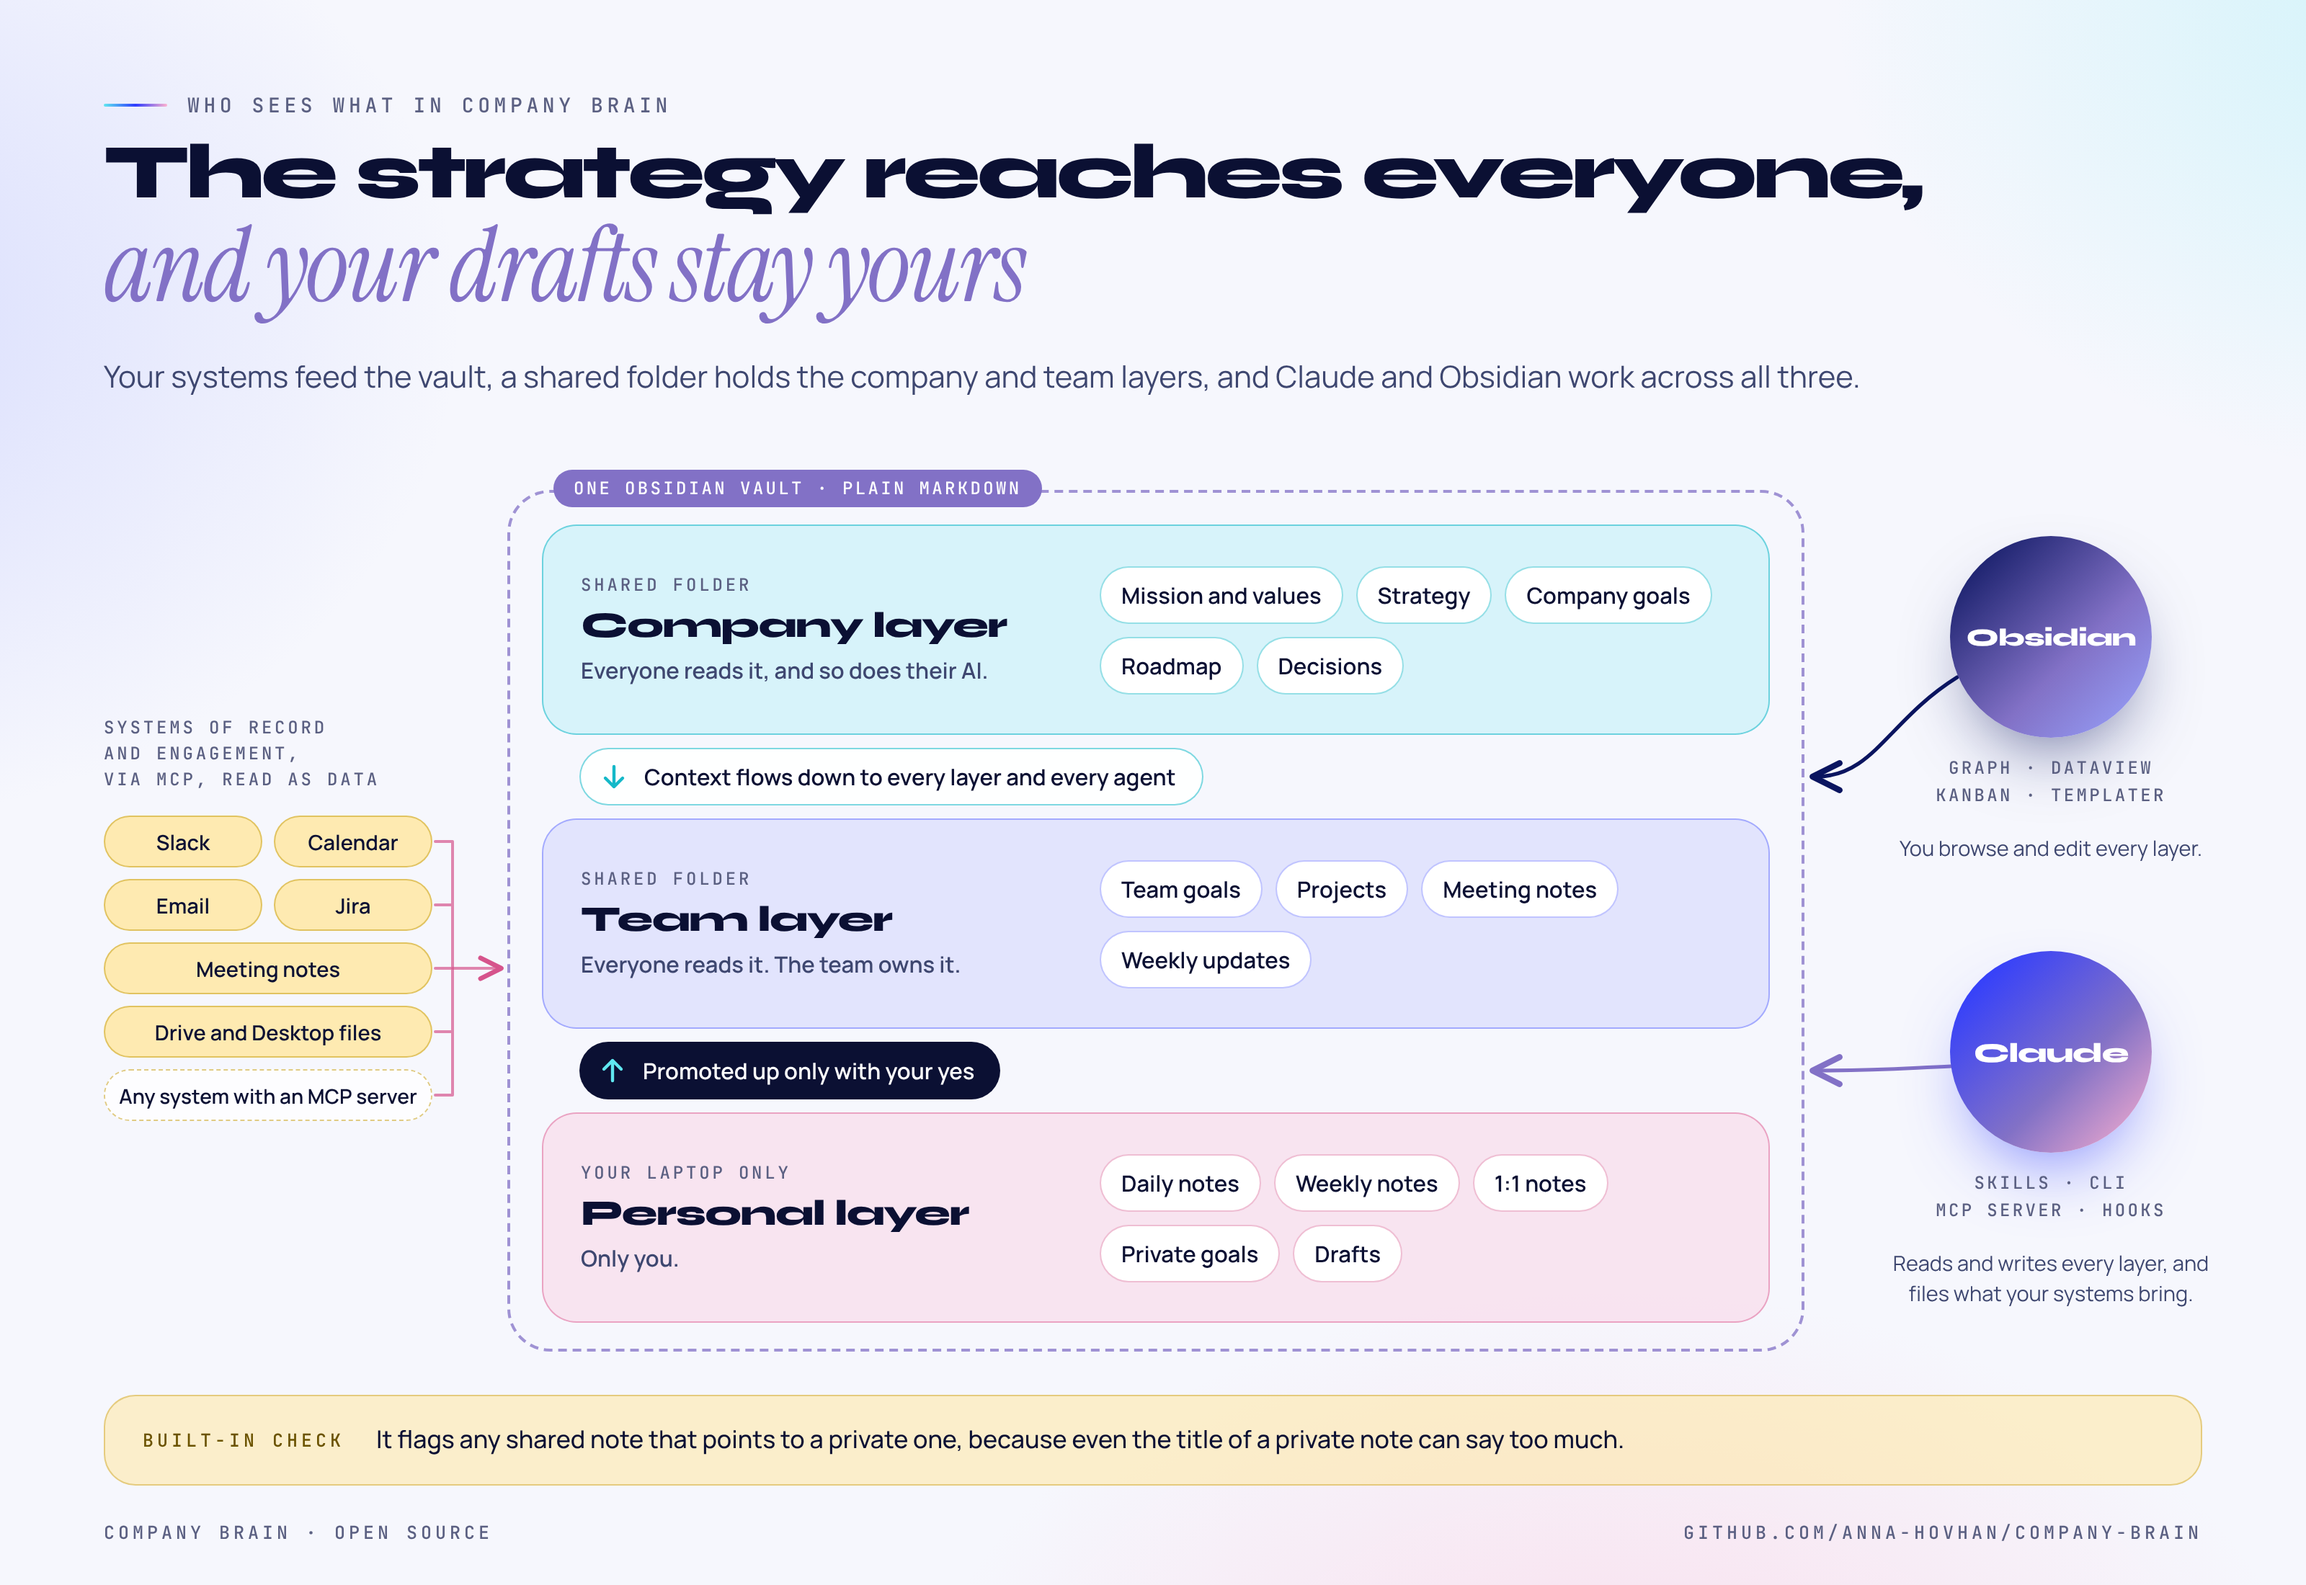
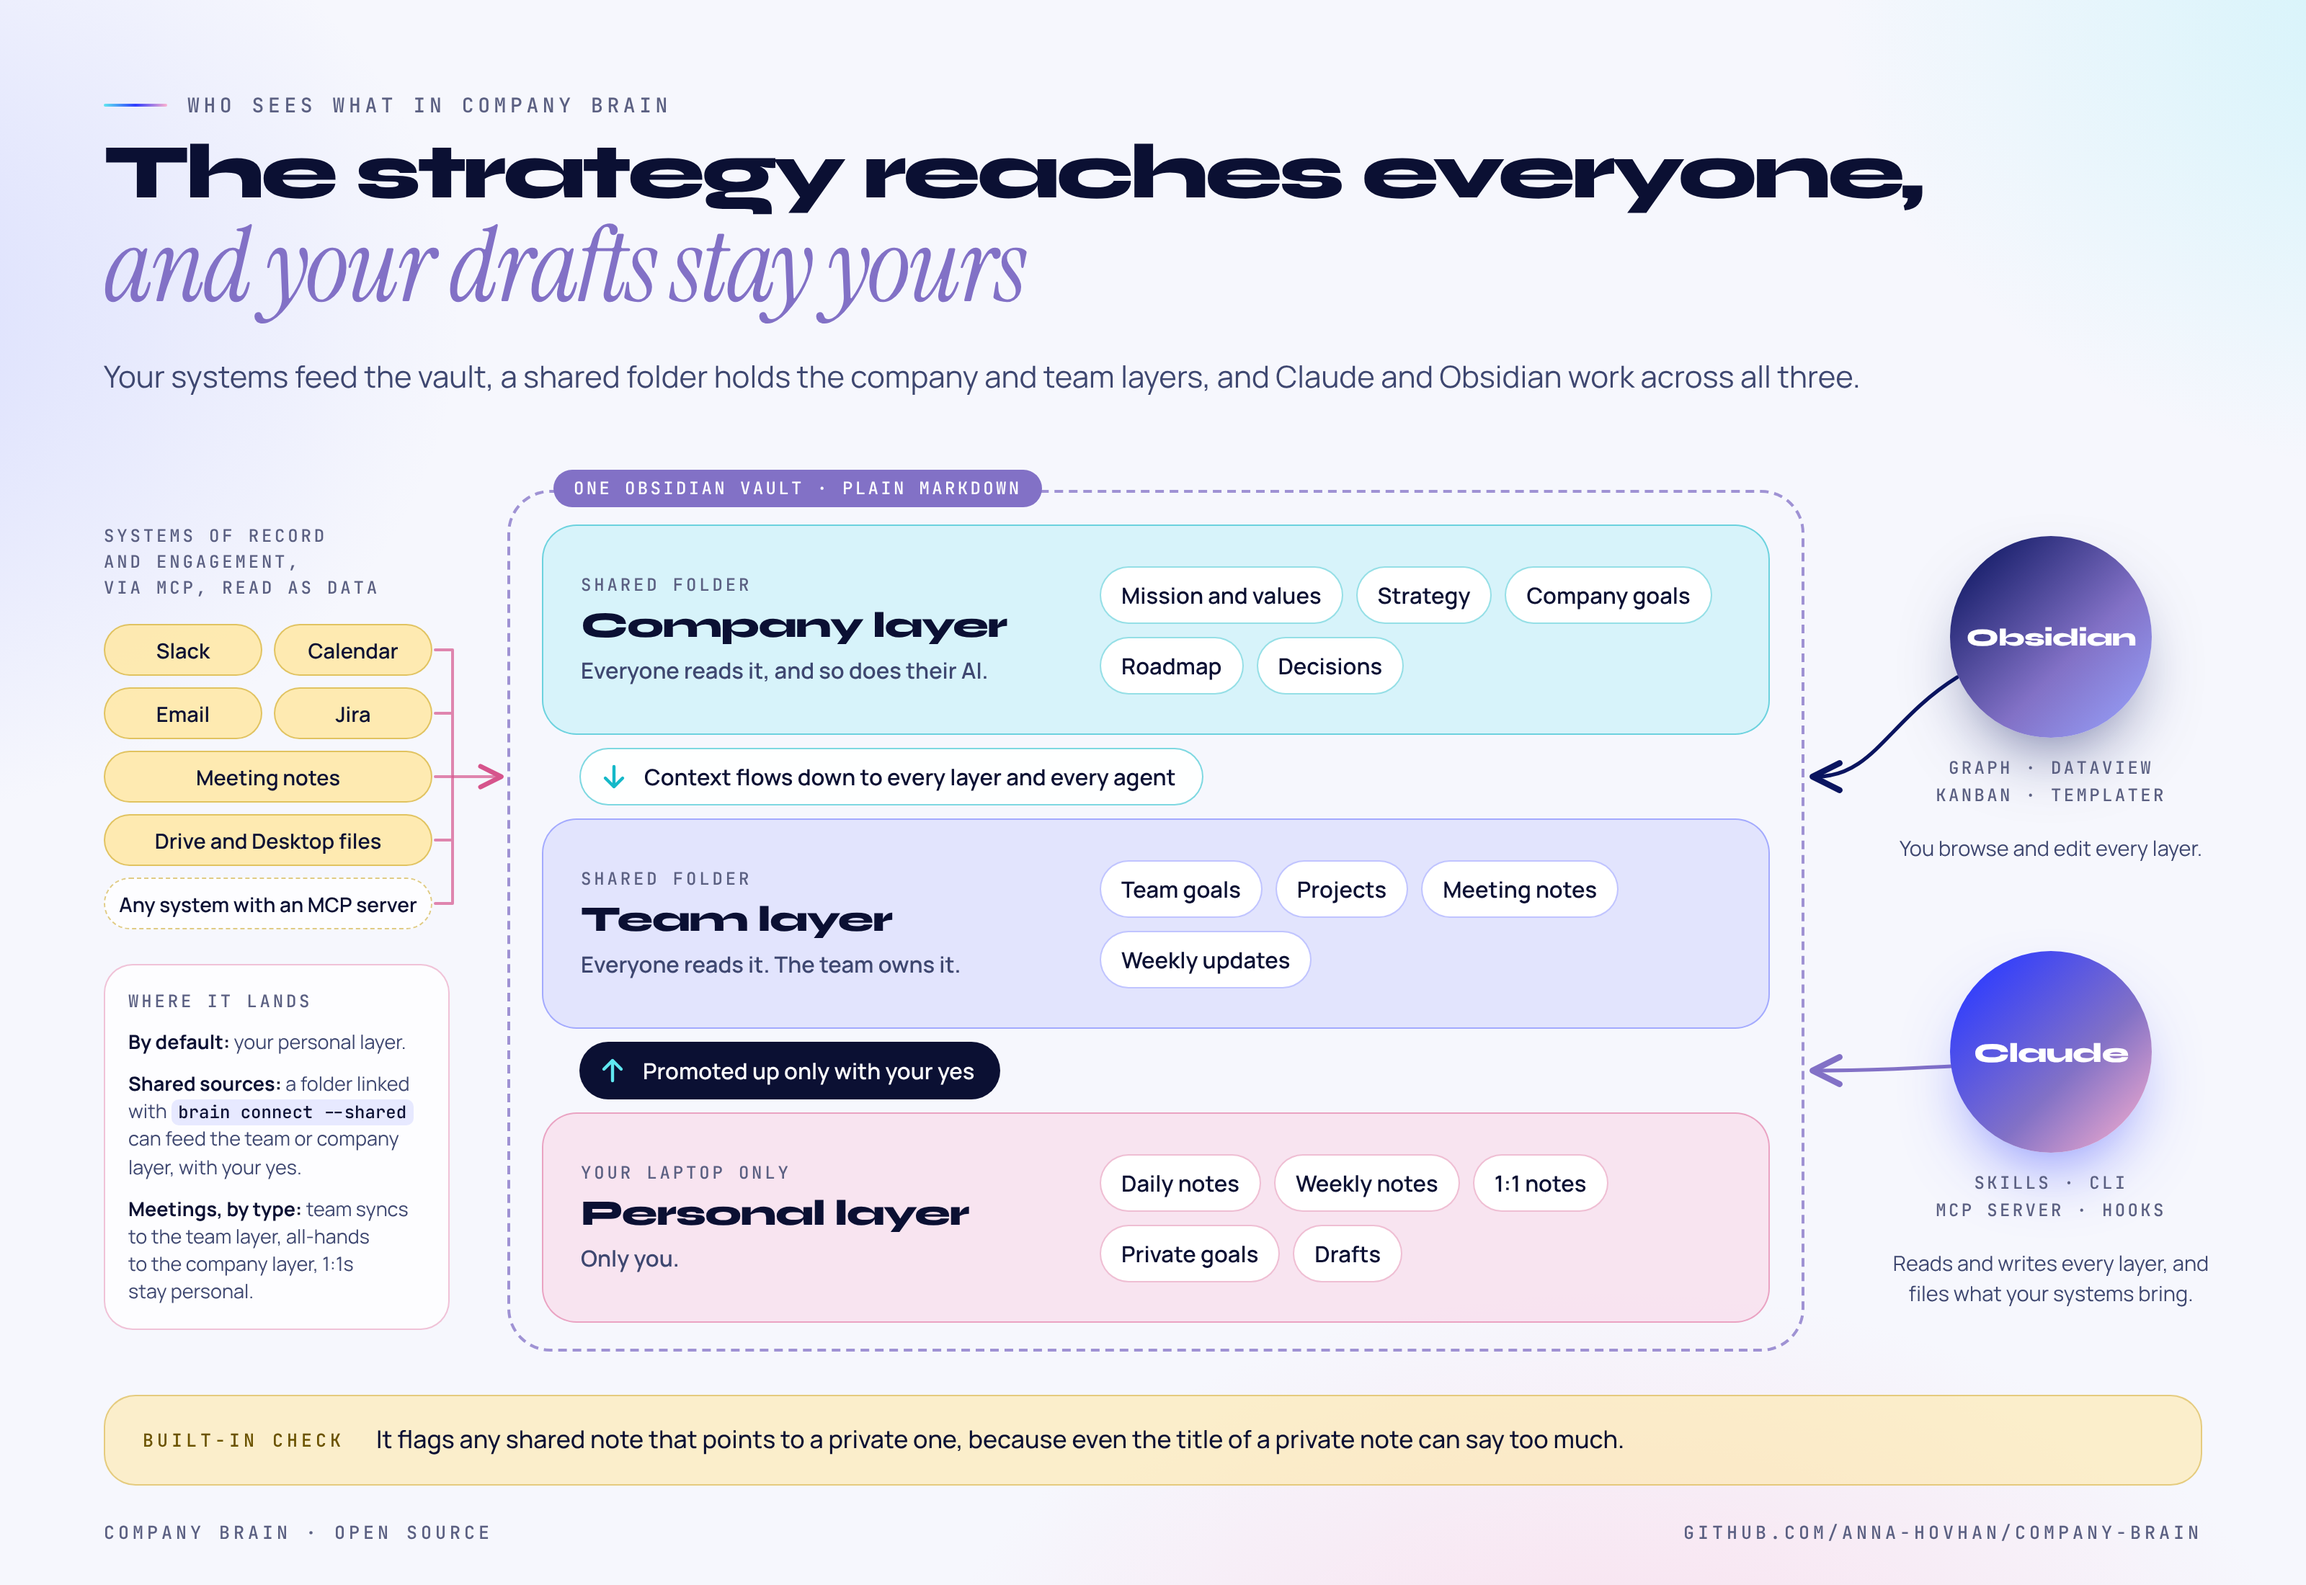
Layers image for the article: add where your systems' data lands
A "Where it lands" card under the systems of record: personal layer by
default; a folder linked with brain connect --shared can feed the team
or company layer with your yes; meetings filed by type (team syncs to
the team layer, all-hands to the company layer, 1:1s stay personal).
From company-brain's ingest and meeting skills and references/sources.md.
The systems group moves up to make room, its arrow level with Obsidian's.

Claude-Session: https://claude.ai/code/session_01MomxP67ukTRV34RoJaBaNR

Changed region(s): [[0.0312, 0.34, 0.2188, 0.8345]]

diff --git a/examples/linkedin-company-brain-short/06-layers-vault-inputs.html b/examples/linkedin-company-brain-short/06-layers-vault-inputs.html
@@ -5,6 +5,9 @@
 <title>The strategy reaches everyone, in three layers (article version)</title>
 <!--
   Article version of 05-layers-inputs-and-tools.html (2026-11-10), for v2 of the short LinkedIn article: no separate shared folder box (the company and team layers keep their "Shared folder" labels), and the systems of record and engagement, centred on the vault, feed the vault as a whole through one arrow onto its border, like Obsidian and Claude on the right. 1600x1100, exported at 2x.
+  Below the systems, "Where it lands": personal by default; a source linked with brain connect --shared can feed the team or company layer
+  with the user's yes (.company-brain/skills/ingest, references/sources.md); meetings filed by type (.company-brain/skills/meeting).
+  The systems group sits higher to make room, its arrow level with Obsidian's (y 539).
   05 stays as it is: it is the company-brain README overview image.
   Facts from company-brain: System/Layers and privacy.md ("What Claude pulls from your tools"),
   .company-brain/skills/weekly and connect, README.md "How Claude accesses it", CLAUDE.md sections 1 and 6.
@@ -31,9 +34,15 @@ h1 em{display:block;font-family:'Instrument Serif',serif;font-style:italic;font-
 .sub{left:72px;top:246px;font-size:21px;line-height:1.5;color:var(--ink2);width:1420px}
 svg.wires{left:0;top:0;width:1600px;height:1100px}
 /* inputs */
-.inputs{left:72px;top:496px;width:240px}
+.inputs{left:72px;top:363px;width:240px}
 .inputs .mono{display:block;font-size:12px;letter-spacing:.16em;line-height:1.5}
 .inp.any{background:rgba(255,255,255,.75);border-style:dashed;font-size:14px}
+.lands{left:72px;top:669px;width:240px;padding:16px;border-radius:20px;background:rgba(255,255,255,.72);border:1.5px solid rgba(214,84,140,.35)}
+.lands .mono{display:block;font-size:12px;letter-spacing:.16em;line-height:1.5}
+.lands ul{list-style:none;margin-top:10px;display:flex;flex-direction:column;gap:10px}
+.lands li{font-size:13.5px;line-height:1.42;color:var(--ink2);text-wrap:pretty}
+.lands li b{color:var(--ink);font-weight:700}
+.lands code{font-family:'JetBrains Mono',monospace;font-size:12px;padding:1px 5px;border-radius:5px;background:rgba(153,165,255,.22);color:var(--ink);white-space:nowrap}
 .inp{position:absolute;height:36px;display:flex;align-items:center;justify-content:center;border-radius:100px;font-size:14.5px;font-weight:600;background:rgba(255,231,163,.85);border:1.5px solid rgba(201,162,31,.55)}
 /* vault and floors */
 .vault{left:352px;top:340px;width:900px;height:598px;border:2px dashed rgba(130,113,198,.75);border-radius:30px}
@@ -81,10 +90,10 @@ svg.wires{left:0;top:0;width:1600px;height:1100px}
       <marker id="arrn" viewBox="0 0 10 10" refX="8" refY="5" markerWidth="9" markerHeight="9" orient="auto"><path d="M1 1 L9 5 L1 9" fill="none" stroke="#0b1560" stroke-width="1.8" stroke-linejoin="round"/></marker>
       <marker id="arrp" viewBox="0 0 10 10" refX="8" refY="5" markerWidth="9" markerHeight="9" orient="auto"><path d="M1 1 L9 5 L1 9" fill="none" stroke="#d6548c" stroke-width="1.8" stroke-linejoin="round"/></marker>
     </defs>
-    <!-- systems: chip rows centred at y 584, 628, 672, 716, 760; a bracket at x 314, then one arrow from its midpoint onto the vault's left border (x 352) -->
+    <!-- systems: chip rows centred at y 451, 495, 539, 583, 627; a bracket at x 314, then one arrow from its midpoint onto the vault's left border (x 352) -->
     <g stroke="#d6548c" stroke-opacity=".7" stroke-width="2">
-      <path d="M302 584 H 314 M302 628 H 314 M302 672 H 314 M302 716 H 314 M302 760 H 314 M314 584 V 760"/>
-      <path d="M314 672 H 346" marker-end="url(#arrp)"/>
+      <path d="M302 451 H 314 M302 495 H 314 M302 539 H 314 M302 583 H 314 M302 627 H 314 M314 451 V 627"/>
+      <path d="M314 539 H 346" marker-end="url(#arrp)"/>
     </g>
     <!-- one arrow each into the vault (right border x 1252), landing between layers -->
     <path d="M1358 470 C 1310 500, 1300 539, 1260 539" stroke="#0b1560" stroke-width="2.6" marker-end="url(#arrn)"/>
@@ -92,13 +101,21 @@ svg.wires{left:0;top:0;width:1600px;height:1100px}
   </svg>
 
   <div class="abs inputs"><span class="mono">Systems of record<br>and engagement,<br>via MCP, read as data</span></div>
-  <span class="inp" style="left:72px;top:566px;width:110px">Slack</span>
-  <span class="inp" style="left:190px;top:566px;width:110px">Calendar</span>
-  <span class="inp" style="left:72px;top:610px;width:110px">Email</span>
-  <span class="inp" style="left:190px;top:610px;width:110px">Jira</span>
-  <span class="inp" style="left:72px;top:654px;width:228px">Meeting notes</span>
-  <span class="inp" style="left:72px;top:698px;width:228px">Drive and Desktop files</span>
-  <span class="inp any" style="left:72px;top:742px;width:228px">Any system with an MCP server</span>
+  <span class="inp" style="left:72px;top:433px;width:110px">Slack</span>
+  <span class="inp" style="left:190px;top:433px;width:110px">Calendar</span>
+  <span class="inp" style="left:72px;top:477px;width:110px">Email</span>
+  <span class="inp" style="left:190px;top:477px;width:110px">Jira</span>
+  <span class="inp" style="left:72px;top:521px;width:228px">Meeting notes</span>
+  <span class="inp" style="left:72px;top:565px;width:228px">Drive and Desktop files</span>
+  <span class="inp any" style="left:72px;top:609px;width:228px">Any system with an MCP server</span>
+  <div class="abs lands">
+    <span class="mono">Where it lands</span>
+    <ul>
+      <li><b>By default:</b> your personal layer.</li>
+      <li><b>Shared sources:</b> a folder linked with <code>brain connect --shared</code> can feed the team or company layer, with your yes.</li>
+      <li><b>Meetings, by type:</b> team syncs to the team layer, all-hands to the company layer, 1:1s stay personal.</li>
+    </ul>
+  </div>
 
   <div class="abs vault"></div>
   <span class="abs vault-tag">One Obsidian vault · plain markdown</span>

diff --git a/examples/linkedin-company-brain-short/README.md b/examples/linkedin-company-brain-short/README.md
@@ -9,7 +9,7 @@ The visuals for the short rewrite (2026-11-09) of the LinkedIn article about [Co
 | `03-friday-and-monday.png` | "Your weekly note, drafted from the week you actually had": what you, your team and your lead get from one line on Friday, and how an update ladders to the mission | `/explainer`, poster format, landscape |
 | `04-floors-inputs-and-tools.png` | Variant of `02` for a README or a talk: the same floors, with your tools (Slack, calendar, email, Jira, meeting notes, Drive and Desktop files) feeding your desk on the left, and Obsidian and Claude working on every floor on the right | `/explainer`, poster format, landscape, 1600x1100 at 2x |
 | `05-layers-inputs-and-tools.png` | `04` for AI-savvy readers: layers instead of floors, promotion named, the shared folder linked into the company and team layers, and Obsidian and Claude as equal circles with one arrow each into the vault. The company-brain README overview image since 2026-11-10 | `/explainer`, poster format, landscape, 1600x1100 at 2x |
-| `06-layers-vault-inputs.png` | `05` for the article (v2 since 2026-11-10): no separate shared folder box, since the company and team layers keep their shared folder labels; the systems of record and engagement, centred on the vault, feed the vault as a whole through one arrow onto its border, like Obsidian and Claude | `/explainer`, poster format, landscape, 1600x1100 at 2x |
+| `06-layers-vault-inputs.png` | `05` for the article (v2 since 2026-11-10): no separate shared folder box, since the company and team layers keep their shared folder labels; the systems of record and engagement, centred on the vault, feed the vault as a whole through one arrow onto its border, like Obsidian and Claude; a "Where it lands" card under them: personal by default, shared sources (`brain connect --shared`) to the team or company layer with your yes, meetings filed by type | `/explainer`, poster format, landscape, 1600x1100 at 2x |
 
 Each PNG has an `.html` source next to it. In-article images are exported at 2x for sharp display.
 
